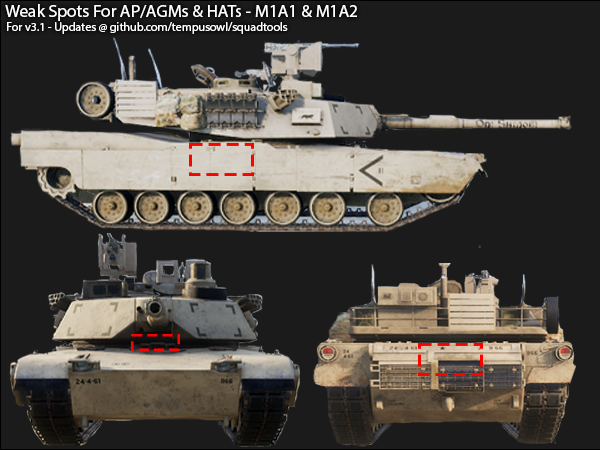
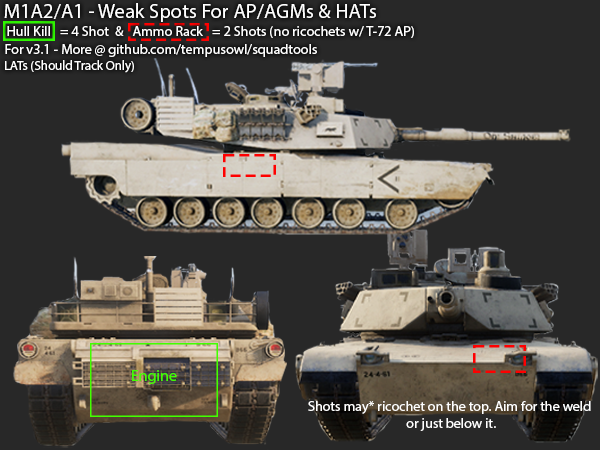
Armor Image Updates

diff --git a/vehicles/t-72.html b/vehicles/t-72.html
@@ -2,7 +2,7 @@
 <html lang="en">
 
 <head>
-    <title>T-72</title>
+    <title>M1A2</title>
     <meta charset="utf-8">
     <meta name="viewport" content="width=device-width, initial-scale=1">
     <link href="https://cdn.jsdelivr.net/npm/bootstrap@5.1.3/dist/css/bootstrap.min.css" rel="stylesheet">
@@ -31,6 +31,9 @@
                     <ul class="dropdown-menu" aria-labelledby="navbarDropdown">
                         <li><a class="dropdown-item" href="../vehicles/m1a2.html">M1A2</a></li>
                         <li><a class="dropdown-item" href="../vehicles/t-72.html">T-72</a></li>
+                        <li><a class="dropdown-item" href="../vehicles/f4034.html">T-72</a></li>
+                        <li><a class="dropdown-item" href="../vehicles/leopard.html">T-72</a></li>
+                        <li><a class="dropdown-item" href="../vehicles/t-62.html">T-72</a></li>               
                         <li>
                             <hr class="dropdown-divider">
                         </li>
@@ -80,20 +83,20 @@
 
 <body>
     <div class="vehicle-title">
-        <h1 style="padding-left:.75em;">T-72</h1>
+        <h1 style="padding-left:.75em;">M1A2 (Abrams)</h1>
         <a style="height: fit-content;
         margin-top: 1em;
-        margin-left: 1em;" type="button" href="https://squad.fandom.com/wiki/T-72"
+        margin-left: 1em;" type="button" href="https://squad.fandom.com/wiki/M1A2"
             class="btn btn-primary btn-sm">Wiki</a>
     </div>
     <div class="map-flex">
         <div class="weak-section">
             <div class="weak-spots">
                 <div class="vehicle-img">
-                    <img class="vic-img" src="../assets/images/infographics/t72.png">
+                    <img class="vic-img" src="../assets/images/infographics/m1a2.png">
                 </div>
                 <div class="vic-buttons">
-                    <a type="button" href="../assets/images/infographics/t72.png" class="btn btn-primary btn-sm">Full</a>
+                    <a type="button" href="../assets/images/infographics/m1a2.png" class="btn btn-primary btn-sm">Full</a>
                 </div>
             </div>
         </div>
@@ -112,17 +115,11 @@
             <!-- Tab panes -->
             <div class="tab-content">
                 <div id="play" class="container tab-pane active"><br>
-                    <p>The T-72 is mid-tier tank, suffering from maneuverability issues and relatively large weak spots.
-                        The T-72 is typically at a disadvantage on most layers when battling face to face. It makes up
-                        for that by being marginally harder to kill from the sides (through facing front on is still a
-                        must) and its ability to surprise attack with the wire guided AGM that the gunner has access to.
-                        AGMs (aka TOWs) are harder to hear/see, allowing you to finish off a disabled tank with your
-                        main gun before being discovered. Opening the attack with the AGM makes the T-72 a glass cannon,
-                        you can quickly deal damage before the enemy knows what hit them. T-72 is the weakest of all (conventional faction) tanks for aggressive gameplay due to the
-                        weaknesses above. T-72 is best utilized in an ambush/defensive role. The T-72 can be aggressive
-                        with its AGM if it is threatened, though if you are too close the AGM will not arm itself and
-                        bounce, making it risky to use within CQB (40m IIRC?). T-72 AGM can hit targets up to 1700 meters
-                        away.
+                    <p>When playing as the Abrams, facing your armor towards the enemy is essential. Conflicts from the rear or side are often deadily.
+                        The sides of the Abrams expose a large ammo rack that can be pen by AP/AGMs/HATs with deadily effect, be cautious of your sides when engaging armor or fighting AGMs/HATs. Abrams is equiped with a ranger finder, this means having
+                        several hundred meters of stand off can be managed with relative ease. The Abrams makes use of a
+                        stablized weapon platform for both commander and gunner, staying mobile is important in urban
+                        areas when against infantry. Abram's speed is its greatest strength, being more mobile </p>
                 </div>
                 <div id="about" class="container tab-pane fade"><br>
                     <p>Created in 1970s for the United States Army, it is classified as main battle tank. Seeing use in
@@ -136,43 +133,37 @@
             <div class="vi-title">Weapon Systems</div>
             <div class="ilf vi-primary">
                 <div class="vis-title ilf">Primary AP:</div>
-                <div class="vis-name ilf ">125mm Sabot</div>
+                <div class="vis-name ilf ">120mm Sabot</div>
                 <div class="vis-count ilf vgreen">x21</div>
-                <div class="vis-reload ilf vred">[8-10s]</div>
+                <div class="vis-reload ilf vred">[8s]]</div>
             </div>
             <div class="vi-primary">
                 <div class="vis-title ilf">Primary HE:</div>
-                <div class="vis-name ilf">125mm High Explosive</div>
+                <div class="vis-name ilf">120mm High Explosive</div>
                 <div class="vis-count ilf vgreen">x21</div>
-                <div class="vis-reload ilf vred">[8-10s]</div>
+                <div class="vis-reload ilf vred">[8s]</div>
             </div>
             <div class="vi-secondary">
                 <div class="vis-title ilf">Secondary:</div>
                 <div class="vis-name ilf">Coax</div>
                 <div class="vis-count ilf vgreen">1x2000</div>
-                <div class="vis-reload ilf vred">[8-10s]</div>
-            </div>
-            <div class="vi-secondary">
-                <div class="vis-title ilf">Tertiary:</div>
-                <div class="vis-name ilf">Refleks Guided Missle</div>
-                <div class="vis-count ilf vgreen">x3</div>
-                <div class="vis-reload ilf vred">[8-10s]</div>
+                <div class="vis-reload ilf vred">[8s]</div>
             </div>
             <div class="vi-commander">
                 <div class="vis-title ilf vlgrey">Commander:</div>
                 <div class="vis-misc ilf">HMG 12.7mm</div>
-                <div class="vis-count ilf vgreen">1x450</div>
-                <div class="vis-reload ilf vred">[20s]</div>
+                <div class="vis-count ilf vgreen">1x400</div>
+                <div class="vis-reload ilf vred">[8s]</div>
             </div>
             <div class="vi-turret-speed">
                 <div class="vis-title ilf vlgrey">Turret Speed:</div>
-                <div class="vis-misc ilf">~12 seconds per 360.</div>
+                <div class="vis-misc ilf">~8 seconds per 360.</div>
             </div>
             <div class="ilf vi-device">
                 <div class="vis-title ilf vlgrey">Device:</div>
                 <div class="vis-mics ilf">40mm Smoke</div>
                 <div class="vis-count ilf vgreen">x2</div>
-                <div class="vis-reload ilf vred"></div>
+                <div class="vis-reload ilf vred">[8s]</div>
             </div>
         </div>
         <div class="vehicle-data-group">
@@ -184,19 +175,19 @@
             </div>
             <div class="vi-driver">
                 <div class="vis-ctitle ilf vlgrey">Stabilzation:</div>
-                <div class="vis-cname ilf">Both (Gunner Only)</div>
+                <div class="vis-cname ilf">Both (Gun/CMD)</div>
             </div>
             <div class="vi-driver">
                 <div class="vis-ctitle ilf vlgrey">Manoeuvrability:</div>
-                <div class="vis-cname ilf">Poor (for tracked)</div>
+                <div class="vis-cname ilf">Very Good (for tracked)</div>
             </div>
             <div class="vi-driver">
-                <div class="vis-ctitle ilf vlgrey">Ranging Laser:</div>
-                <div class="vis-cname ilf">Gunner Only</div>
+                <div class="vis-ctitle ilf vlgrey">Ranging: Laser Ranger:</div>
+                <div class="vis-cname ilf">Both (Gun./CMD)</div>
             </div>
             <div class="vi-commander">
                 <div class="vis-ctitle ilf vlgrey">Commander:</div>
-                <div class="vis-cname ilf">HMG </div>
+                <div class="vis-cname ilf">Optic Only (360 Rotation)</div>
             </div>
             <div class="vi-aquatic">
                 <div class="vis-ctitle ilf vlgrey">Aquatic:</div>
@@ -204,15 +195,14 @@
             </div>
             <div class="vi-seats">
                 <div class="vis-ctitle ilf vlgrey">Seating:</div>
-                <div class="vis-cname ilf">3 Crewman Operators</div>
+                <div class="vis-cname ilf">3 Crewman Operators + 1 (Exposed Gunner)</div>
             </div>
         </div>
         <div class="vehicle-data-group">
             <div class="vi-title">Extra Infomation</div>
             <div class="vi-quirks">
                 <div class="vis-ctitle ilf vlgrey">Quirks:</div>
-                <div class="vis-cname ilf">AGMs can fail to arm (when under 50m) when fighting CQB and will be duds.
-                </div>
+                <div class="vis-cname ilf">Poor defilade when aiming behind.</div>
             </div>
             <div class="vi-hullhp">
                 <div class="vis-ctitle ilf vlgrey">Hull HP:</div>
@@ -220,7 +210,7 @@
             </div>
             <div class="vi-other-names">
                 <div class="vis-ctitle ilf vlgrey">Other Names:</div>
-                <div class="vis-cname ilf">Tank, MBT (Main Battle Tank), T-72</div>
+                <div class="vis-cname ilf">Tank, MBT (Main Battle Tank), Abrams, M1, M1A2 and M1A1*</div>
             </div>
             <div class="vi-tickets">
                 <div class="vis-ctitle ilf vlgrey">Tickets</div>
@@ -228,7 +218,7 @@
             </div>
             <div class="vi-tickets">
                 <div class="vis-ctitle ilf vlgrey">Respawn:</div>
-                <div class="vis-cname ilf">20 Minutes</div>
+                <div class="vis-cname ilf">20 Minutes (typically) [Sometimes Different]</div>
             </div>
         </div>
     </div>

diff --git a/vehicles/f4034.html b/vehicles/f4034.html
@@ -13,9 +13,8 @@
 <nav class="navbar navbar-dark navbar-expand-lg bg-dark">
     <div class="container-fluid">
         <a class="navbar-brand" href="../index.html">Squad Tools</a>
-        <button class="navbar-toggler" type="button" data-bs-toggle="collapse"
-            data-bs-target="#navbarSupportedContent" aria-controls="navbarSupportedContent" aria-expanded="false"
-            aria-label="Toggle navigation">
+        <button class="navbar-toggler" type="button" data-bs-toggle="collapse" data-bs-target="#navbarSupportedContent"
+            aria-controls="navbarSupportedContent" aria-expanded="false" aria-label="Toggle navigation">
             <span class="navbar-toggler-icon"></span>
         </button>
         <div class="collapse navbar-collapse" id="navbarSupportedContent">
@@ -31,9 +30,9 @@
                     <ul class="dropdown-menu" aria-labelledby="navbarDropdown">
                         <li><a class="dropdown-item" href="../vehicles/m1a2.html">M1A2</a></li>
                         <li><a class="dropdown-item" href="../vehicles/t-72.html">T-72</a></li>
-                        <li><a class="dropdown-item" href="../vehicles/f4034.html">T-72</a></li>
-                        <li><a class="dropdown-item" href="../vehicles/leopard.html">T-72</a></li>
-                        <li><a class="dropdown-item" href="../vehicles/t-62.html">T-72</a></li>               
+                        <li><a class="dropdown-item" href="../vehicles/f4034.html">F4034 Challenger</a></li>
+                        <li><a class="dropdown-item" href="../vehicles/leopard.html">Leopard</a></li>
+                        <li><a class="dropdown-item" href="../vehicles/t-62.html">T-62</a></li>
                         <li>
                             <hr class="dropdown-divider">
                         </li>
@@ -83,20 +82,21 @@
 
 <body>
     <div class="vehicle-title">
-        <h1 style="padding-left:.75em;">M1A2 (Abrams)</h1>
+        <h1 style="padding-left:.75em;">FV4034 (Challenger)</h1>
         <a style="height: fit-content;
         margin-top: 1em;
-        margin-left: 1em;" type="button" href="https://squad.fandom.com/wiki/M1A2"
+        margin-left: 1em;" type="button" href="https://squad.fandom.com/wiki/FV4034"
             class="btn btn-primary btn-sm">Wiki</a>
     </div>
     <div class="map-flex">
         <div class="weak-section">
             <div class="weak-spots">
                 <div class="vehicle-img">
-                    <img class="vic-img" src="../assets/images/infographics/m1a2.png">
+                    <img class="vic-img" src="../assets/images/infographics/fv4034.png">
                 </div>
                 <div class="vic-buttons">
-                    <a type="button" href="../assets/images/infographics/m1a2.png" class="btn btn-primary btn-sm">Full</a>
+                    <a type="button" href="../assets/images/infographics/fv4034.png"
+                        class="btn btn-primary btn-sm">Full</a>
                 </div>
             </div>
         </div>
@@ -115,11 +115,11 @@
             <!-- Tab panes -->
             <div class="tab-content">
                 <div id="play" class="container tab-pane active"><br>
-                    <p>When playing as the Abrams, facing your armor towards the enemy is essential. Conflicts from the rear or side are often deadily.
-                        The sides of the Abrams expose a large ammo rack that can be pen by AP/AGMs/HATs with deadily effect, be cautious of your sides when engaging armor or fighting AGMs/HATs. Abrams is equiped with a ranger finder, this means having
-                        several hundred meters of stand off can be managed with relative ease. The Abrams makes use of a
-                        stablized weapon platform for both commander and gunner, staying mobile is important in urban
-                        areas when against infantry. Abram's speed is its greatest strength, being more mobile </p>
+                    <p>Challenger is a mid-tier tank with okay manoeuvrability and speed. It is equiped with RWS loader
+                        and commander seat, allowing multiple eyes to see all around the tank for threats while
+                        protected from enemy fire. The loader's RWS can kill threats, though its ammo
+                        is limited. The main cannon has some of the lowest bullet drop, giving it the edge in long range
+                        fights.</p>
                 </div>
                 <div id="about" class="container tab-pane fade"><br>
                     <p>Created in 1970s for the United States Army, it is classified as main battle tank. Seeing use in
@@ -132,32 +132,41 @@
         <div class="vehicle-data-group">
             <div class="vi-title">Weapon Systems</div>
             <div class="ilf vi-primary">
-                <div class="vis-title ilf">Primary AP:</div>
+                <div class="vis-title ilf">Primary AP[2]:</div>
                 <div class="vis-name ilf ">120mm Sabot</div>
                 <div class="vis-count ilf vgreen">x21</div>
                 <div class="vis-reload ilf vred">[8s]]</div>
             </div>
             <div class="vi-primary">
-                <div class="vis-title ilf">Primary HE:</div>
+                <div class="vis-title ilf">Primary HE[2]:</div>
                 <div class="vis-name ilf">120mm High Explosive</div>
                 <div class="vis-count ilf vgreen">x21</div>
                 <div class="vis-reload ilf vred">[8s]</div>
             </div>
-            <div class="vi-secondary">
-                <div class="vis-title ilf">Secondary:</div>
-                <div class="vis-name ilf">Coax</div>
-                <div class="vis-count ilf vgreen">1x2000</div>
+            <div class="vi-primary">
+                <div class="vis-title ilf">Primary Smoke[2]:</div>
+                <div class="vis-name ilf">120mm Smoke</div>
+                <div class="vis-count ilf vgreen">x6</div>
                 <div class="vis-reload ilf vred">[8s]</div>
             </div>
+            <div class="vi-secondary">
+                <div class="vis-title ilf">Secondary[2]:</div>
+                <div class="vis-name ilf">Coax</div>
+                <div class="vis-count ilf vgreen">1x2000</div>
+            </div>
             <div class="vi-commander">
-                <div class="vis-title ilf vlgrey">Commander:</div>
+                <div class="vis-title ilf vlgrey">Commander[3]:</div>
                 <div class="vis-misc ilf">HMG 12.7mm</div>
                 <div class="vis-count ilf vgreen">1x400</div>
-                <div class="vis-reload ilf vred">[8s]</div>
+            </div>
+            <div class="vi-commander">
+                <div class="vis-title ilf vlgrey">Loader[4]:</div>
+                <div class="vis-misc ilf">L37A2 RWS</div>
+                <div class="vis-count ilf vgreen">1x750</div>
             </div>
             <div class="vi-turret-speed">
                 <div class="vis-title ilf vlgrey">Turret Speed:</div>
-                <div class="vis-misc ilf">~8 seconds per 360.</div>
+                <div class="vis-misc ilf">~7.5 seconds per 360.</div>
             </div>
             <div class="ilf vi-device">
                 <div class="vis-title ilf vlgrey">Device:</div>
@@ -170,7 +179,7 @@
             <div class="vi-title">Capabilities</div>
             <div class="vi-driver">
                 <div class="vis-ctitle ilf vlgrey">Driver:</div>
-                <div class="vis-cname ilf">Rear Smoke Trail</div>
+                <div class="vis-cname ilf">1 Window w/ Smoke</div>
                 <div class="vis-reload ilf vred">[8s]</div>
             </div>
             <div class="vi-driver">
@@ -179,23 +188,23 @@
             </div>
             <div class="vi-driver">
                 <div class="vis-ctitle ilf vlgrey">Manoeuvrability:</div>
-                <div class="vis-cname ilf">Very Good (for tracked)</div>
+                <div class="vis-cname ilf">Okay (For Tracked)</div>
             </div>
             <div class="vi-driver">
-                <div class="vis-ctitle ilf vlgrey">Ranging: Laser Ranger:</div>
-                <div class="vis-cname ilf">Both (Gun./CMD)</div>
+                <div class="vis-ctitle ilf vlgrey">Ranging:</div>
+                <div class="vis-cname ilf">Laser (Gun./CMD)</div>
             </div>
             <div class="vi-commander">
                 <div class="vis-ctitle ilf vlgrey">Commander:</div>
                 <div class="vis-cname ilf">Optic Only (360 Rotation)</div>
             </div>
             <div class="vi-aquatic">
-                <div class="vis-ctitle ilf vlgrey">Aquatic:</div>
-                <div class="vis-cname ilf">No</div>
+                <div class="vis-ctitle ilf vlgrey">Speed:</div>
+                <div class="vis-cname ilf">0-60 in 8s & 100 TOP</div>
             </div>
             <div class="vi-seats">
                 <div class="vis-ctitle ilf vlgrey">Seating:</div>
-                <div class="vis-cname ilf">3 Crewman Operators + 1 (Exposed Gunner)</div>
+                <div class="vis-cname ilf">2 Crewman + 1 CMD + 1 Loader</div>
             </div>
         </div>
         <div class="vehicle-data-group">
@@ -206,11 +215,11 @@
             </div>
             <div class="vi-hullhp">
                 <div class="vis-ctitle ilf vlgrey">Hull HP:</div>
-                <div class="vis-cname ilf">1200HP (?)</div>
+                <div class="vis-cname ilf">3000HP</div>
             </div>
             <div class="vi-other-names">
                 <div class="vis-ctitle ilf vlgrey">Other Names:</div>
-                <div class="vis-cname ilf">Tank, MBT (Main Battle Tank), Abrams, M1, M1A2 and M1A1*</div>
+                <div class="vis-cname ilf">Tank, MBT (Main Battle Tank), Challenger</div>
             </div>
             <div class="vi-tickets">
                 <div class="vis-ctitle ilf vlgrey">Tickets</div>
